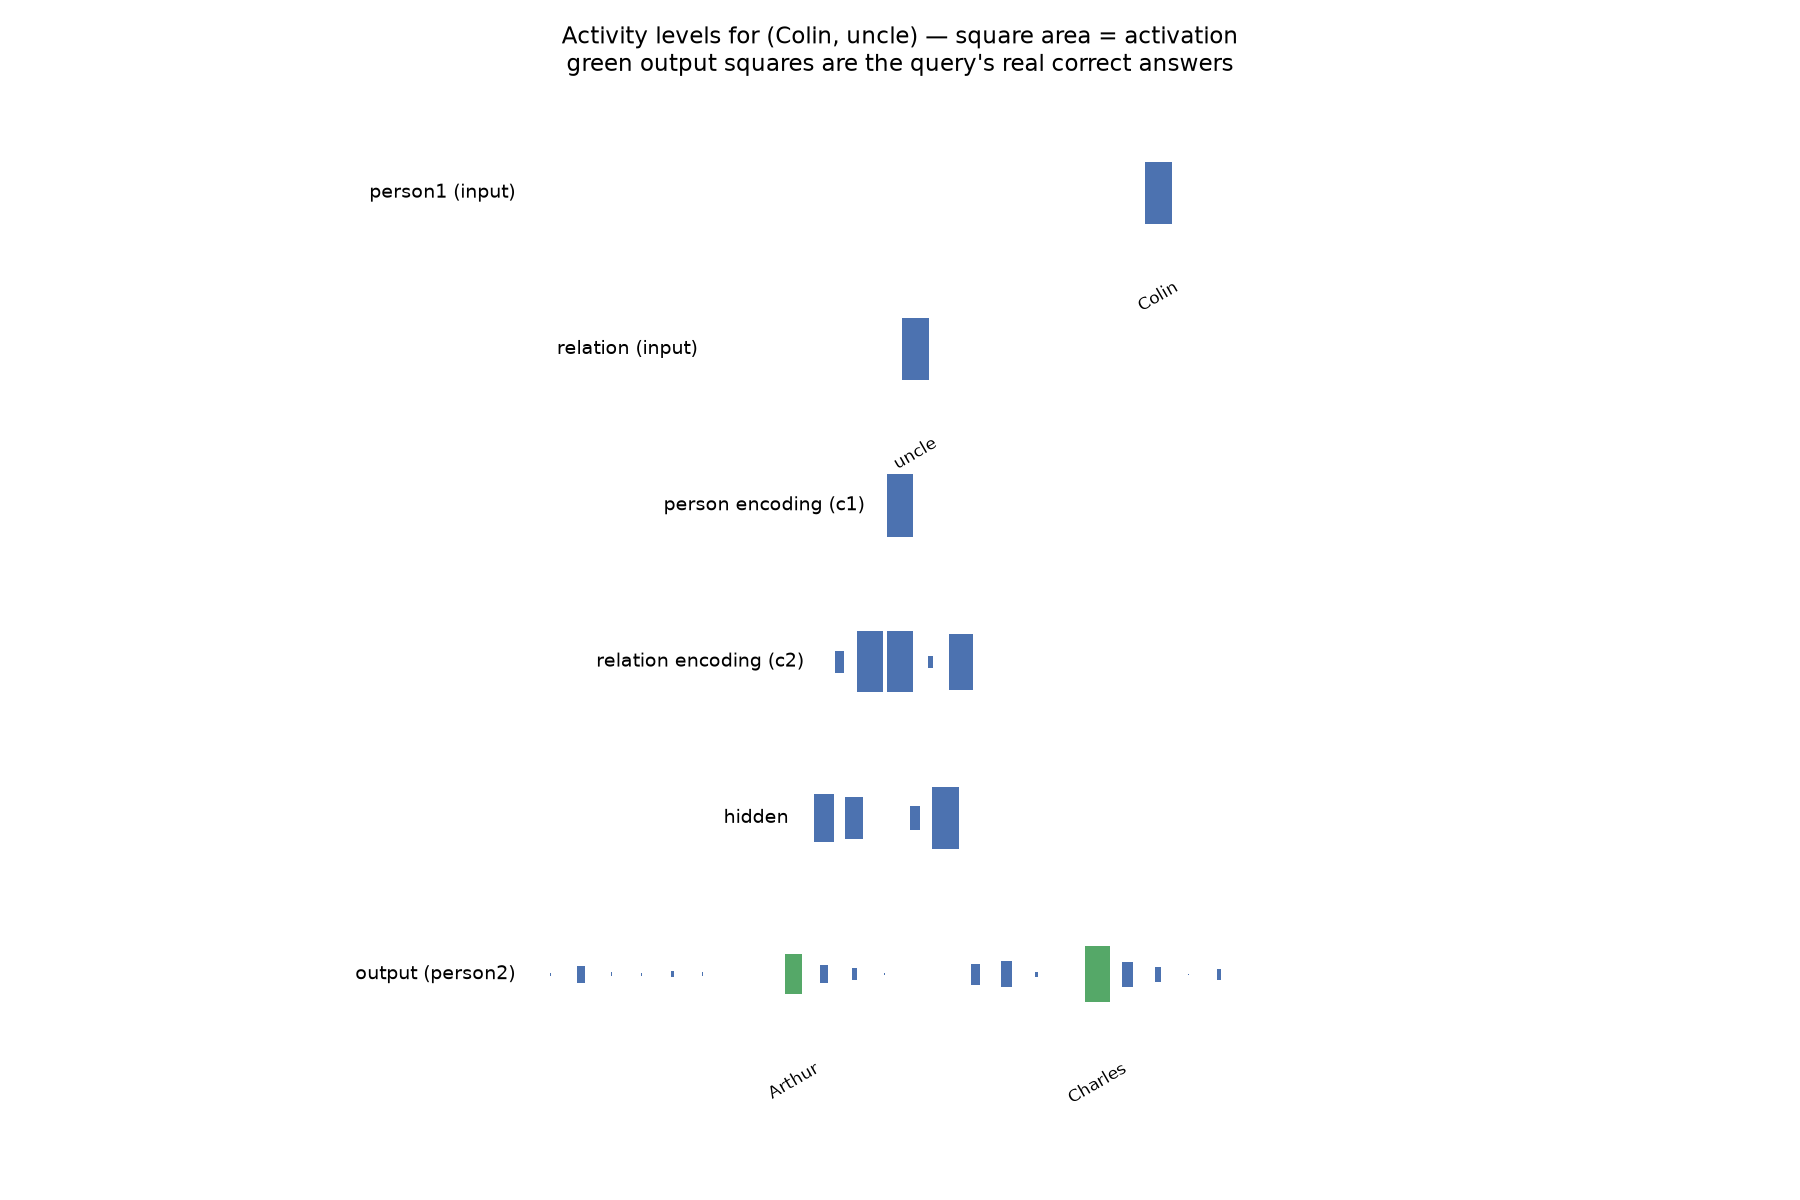
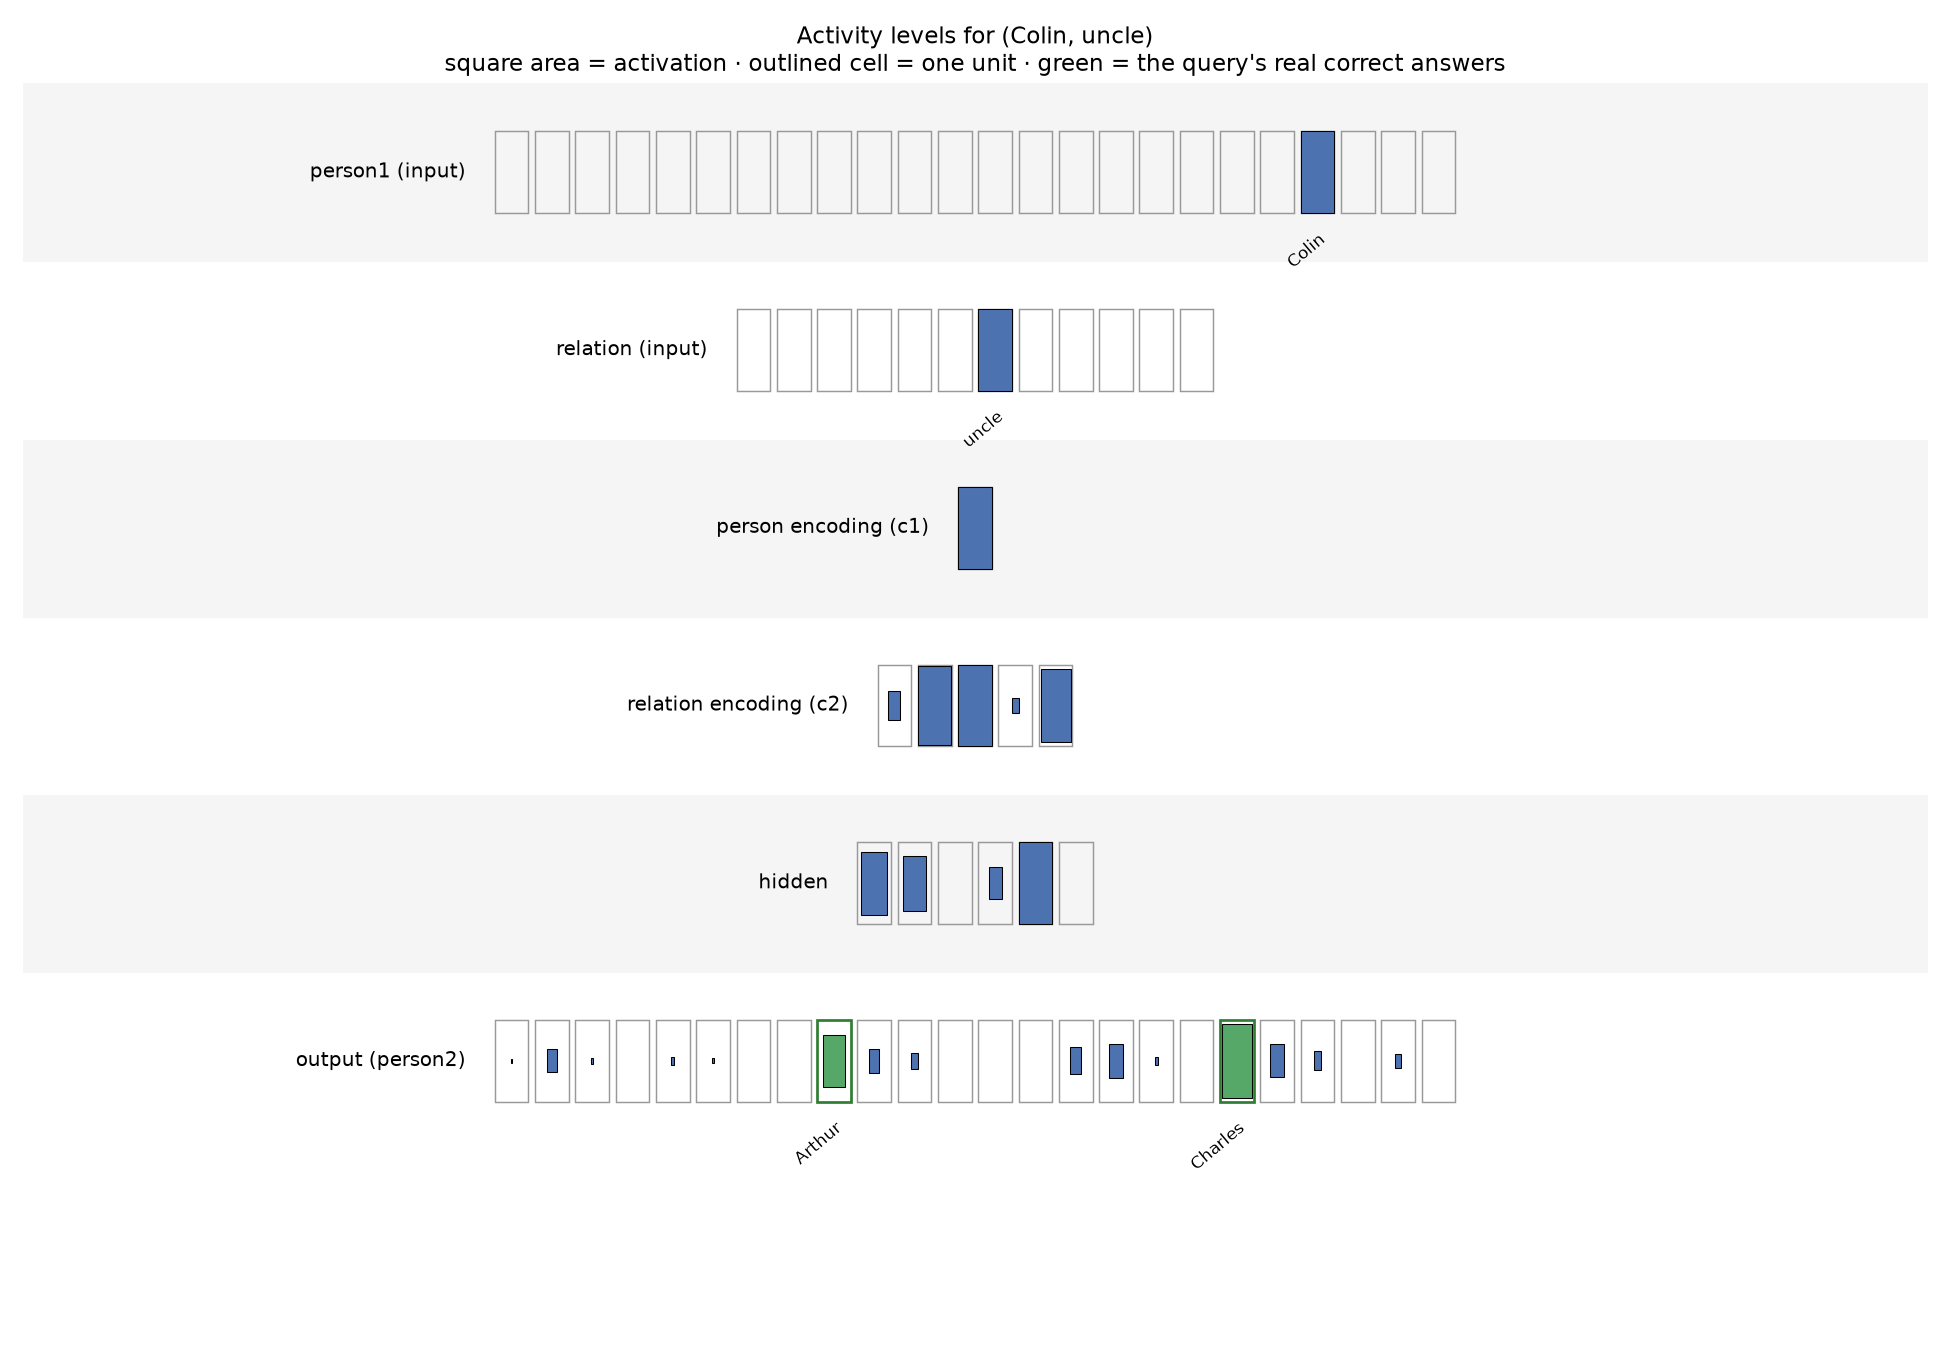
Add activation diagram visualization and seed argmax evaluation script

diff --git a/visualize.py b/visualize.py
@@ -123,26 +123,38 @@ def plot_activation_diagram(model, p1_name, rel_name, out_path):
         ("person1 (input)", p1_onehot[0].tolist(), {p1_idx: p1_name}, None),
     ]
 
-    spacing, square_max = 0.45, 0.4
-    fig, ax = plt.subplots(figsize=(12, 8))
+    spacing, cell = 0.55, 0.46
+    fig, ax = plt.subplots(figsize=(13, 9))
     for row_i, (label, values, annotate, green_idxs) in enumerate(rows):
         n = len(values)
         width = n * spacing
+        ax.axhspan(row_i - 0.5, row_i + 0.5, color="#F5F5F5" if row_i % 2 else "white", zorder=0)
         for i, v in enumerate(values):
             x = -width / 2 + (i + 0.5) * spacing
-            side = square_max * (v ** 0.5)
-            color = "#55A868" if green_idxs and i in green_idxs else "#4C72B0"
-            ax.add_patch(patches.Rectangle((x - side / 2, row_i - side / 2), side, side,
-                                            facecolor=color, edgecolor="none"))
+            is_answer = bool(green_idxs and i in green_idxs)
+            # Outline box: every unit's fixed-size cell, so "small value" and
+            # "no unit here" look different even when the fill is tiny.
+            ax.add_patch(patches.Rectangle((x - cell / 2, row_i - cell / 2), cell, cell,
+                                            facecolor="none",
+                                            edgecolor="#2E7D32" if is_answer else "#999999",
+                                            linewidth=1.3 if is_answer else 0.7, zorder=1))
+            side = cell * (v ** 0.5)
+            if side > 0.02:
+                color = "#55A868" if is_answer else "#4C72B0"
+                ax.add_patch(patches.Rectangle((x - side / 2, row_i - side / 2), side, side,
+                                                facecolor=color, edgecolor="black",
+                                                linewidth=0.5, zorder=2))
             if annotate and i in annotate:
-                ax.text(x, row_i - 0.55, annotate[i], ha="center", va="top", fontsize=8, rotation=30)
-        ax.text(-width / 2 - 0.3, row_i, label, ha="right", va="center", fontsize=9)
+                ax.text(x, row_i - cell / 2 - 0.1, annotate[i], ha="right", va="top",
+                         fontsize=8, rotation=40, rotation_mode="anchor")
+        ax.text(-width / 2 - 0.35, row_i, label, ha="right", va="center", fontsize=9.5)
 
     ax.set_xlim(-13, 13)
-    ax.set_ylim(-1.3, len(rows) - 0.3)
+    ax.set_ylim(-1.5, len(rows) - 0.5)
     ax.axis("off")
-    ax.set_title(f"Activity levels for ({p1_name}, {rel_name}) — square area = activation\n"
-                 f"green output squares are the query's real correct answers", fontsize=11)
+    ax.set_title(f"Activity levels for ({p1_name}, {rel_name})\n"
+                 f"square area = activation · outlined cell = one unit · green = the query's real correct answers",
+                 fontsize=11)
     fig.tight_layout()
     fig.savefig(out_path, dpi=150)
     plt.close(fig)

diff --git a/_seed_argmax_check.py b/_seed_argmax_check.py
@@ -1,0 +1,8 @@
+import train
+
+for seed in [1, 7, 42, 123]:
+    train.SEED = seed
+    m = train.train()
+    tc, tt = train.evaluate_argmax(m, train.TEST_TRIPLES, label="TEST", verbose=False)
+    vc, vt = train.evaluate_argmax(m, train.VAL_TRIPLES, label="VAL", verbose=False)
+    print(f"seed={seed}: TEST_TRIPLES {tc}/{tt}, VAL_TRIPLES {vc}/{vt}", flush=True)
